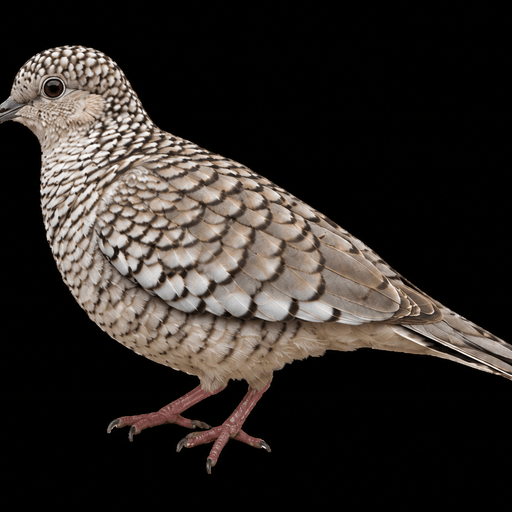
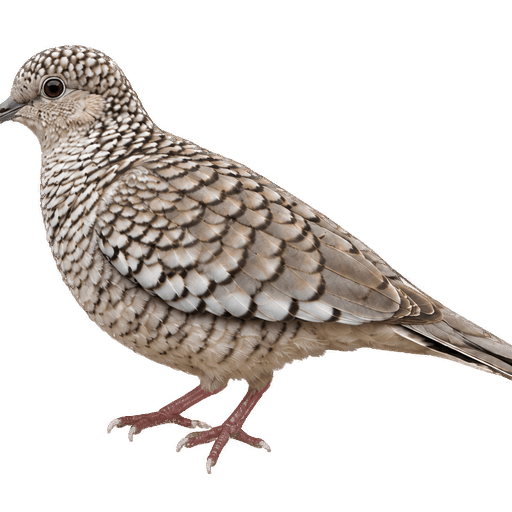
perf: remove black backgrounds from poster PNGs using rembg AI
All 5 bird thumbnails now have transparent backgrounds (RGBA PNG).
Processed with u2net model + alpha matting for clean bird cutouts.
  buco.png:        343 KB (transparent)
  flamenco.png:    276 KB (transparent)
  paloma.png:      299 KB (transparent)
  rey_guajiro.png: 286 KB (transparent)
  turpial.png:     292 KB (transparent)

diff --git a/scripts/remove_bg.py b/scripts/remove_bg.py
@@ -1,0 +1,47 @@
+"""
+remove_bg.py — Elimina el fondo negro de los posters de aves
+usando rembg (modelo u2net) para obtener PNG con alpha transparente
+"""
+import sys
+from pathlib import Path
+from rembg import remove
+from PIL import Image
+import io
+
+POSTERS_DIR = Path("public/posters")
+OUTPUT_DIR  = POSTERS_DIR  # sobreescribir en el mismo lugar
+
+files = sorted(POSTERS_DIR.glob("*.png"))
+if not files:
+    print("No PNG files found in public/posters/")
+    sys.exit(1)
+
+print(f"Processing {len(files)} poster(s)...\n")
+
+for img_path in files:
+    print(f">> {img_path.name} ... ", end="", flush=True)
+
+    with open(img_path, "rb") as f:
+        input_data = f.read()
+
+    # Remove background — returns PNG with transparent alpha
+    output_data = remove(
+        input_data,
+        alpha_matting=True,
+        alpha_matting_foreground_threshold=240,
+        alpha_matting_background_threshold=10,
+        alpha_matting_erode_size=10,
+    )
+
+    # Open result, resize to 512x512 preserving transparency
+    img = Image.open(io.BytesIO(output_data)).convert("RGBA")
+    img = img.resize((512, 512), Image.LANCZOS)
+
+    # Save as PNG with transparency (overwrite)
+    out_path = OUTPUT_DIR / img_path.name
+    img.save(out_path, "PNG", optimize=True)
+
+    size_kb = out_path.stat().st_size // 1024
+    print(f"done → {size_kb} KB (transparent PNG 512×512)")
+
+print("\nOK - All posters have transparent backgrounds!")
